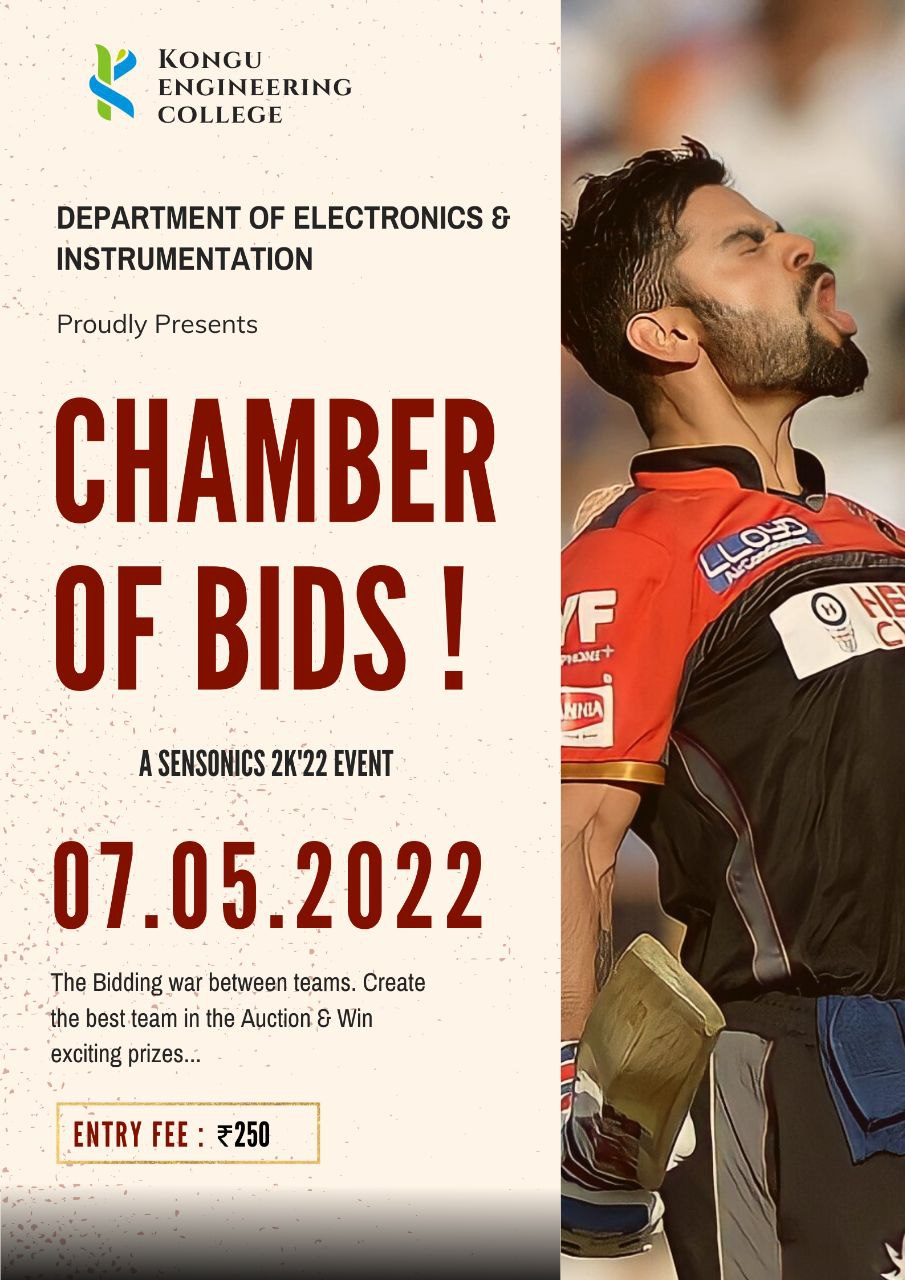
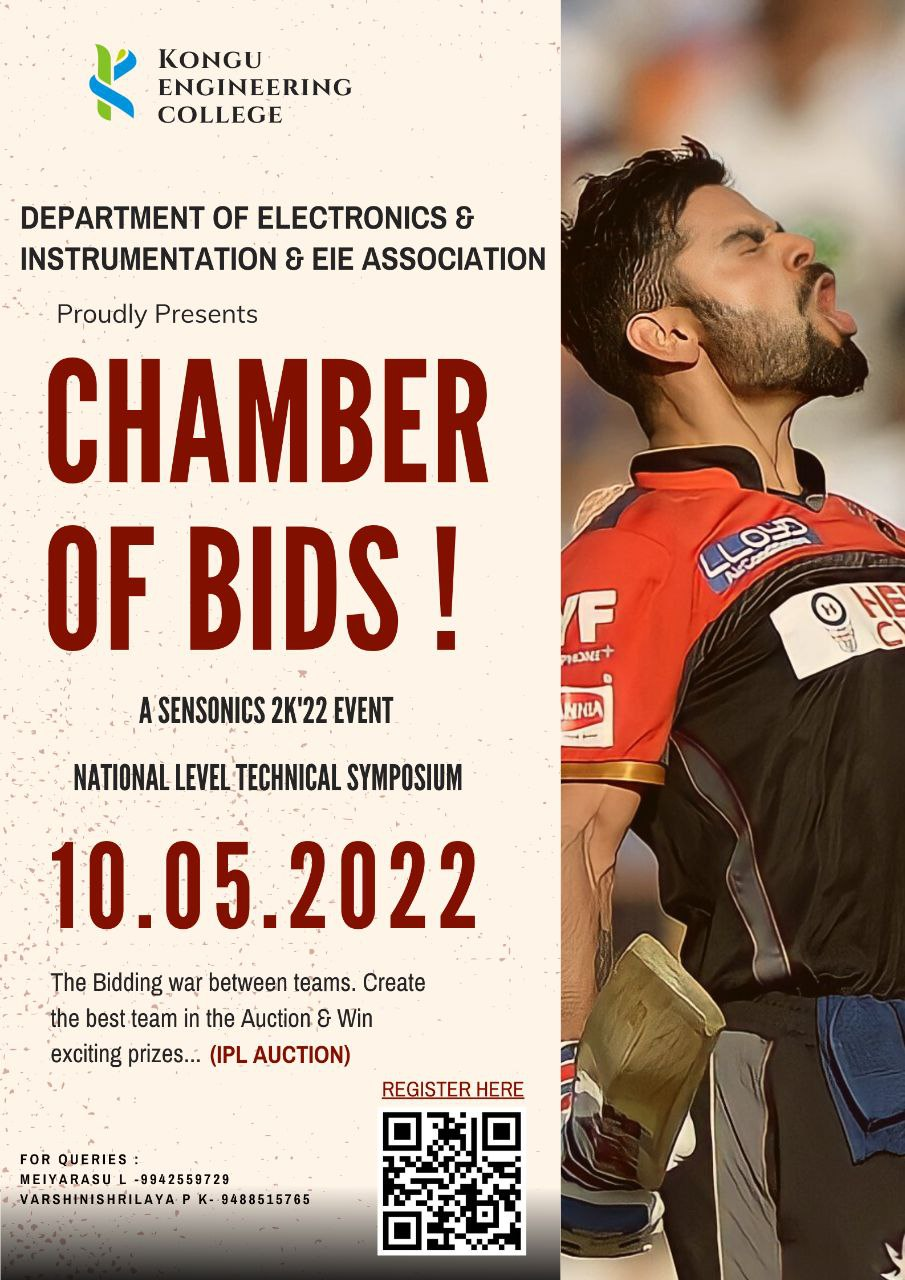
commit on main

diff --git a/index.html b/index.html
@@ -102,7 +102,10 @@
               are the highlights of theDepartment.</p>
             <h2>About The Event</h2>
             <p>National Level Inter College Techinal Symposium hosted by department of electronics and instrumentation engineering in coordination with EIE Association to ensure that any talent shouldn't go unaccounted and to be regarded with reward and recognition. This have always been the motive for SENSONICS throughout the years. So once again on the year 2022 this wonderful platform have been created for intellectual minds to exhibit skills on their area of interest and an opportunity to explore and develop in both Social and technical sides.</p>
+            <h2>Registration Details</h2>
+            <p></p>
           </div>
+          
           <div class="col-lg-3">
             <h3>Where</h3>
             <p>Perundurai,Erode</p>
@@ -119,7 +122,7 @@
     <section id="speakers" class="section-with-bg">
       <div class="container" data-aos="fade-up">
         <div class="section-header">
-          <h2>Event</h2>
+          <h2>Events</h2>
           <p>Here are the list of events</p>
         </div>
 
@@ -297,7 +300,7 @@
               <div class="col-md-2"><time>09:30 AM</time></div>
               <div class="col-md-10">
                 <div class="speaker">
-                  <img src="" alt="paper ">
+                  <img src="../img/inaguration.jpg" alt="paper ">
                 </div>
                 <h4>Inaguration</h4>
                 <p>Venue: Maharaja Auditorium</p>
@@ -385,7 +388,7 @@
               <div class="col-md-2"><time>03:45 PM</time></div>
               <div class="col-md-10">
                 <div class="speaker">
-                  <img src="../img/the-instant.jpg" alt="the instant">
+                  <img src="../img/the-valedictory.jpg" alt="the instant">
                 </div>
                 <h4>Valedictory Function</h4>
                 <p>Venue: Maharaja Auditorium</p>
